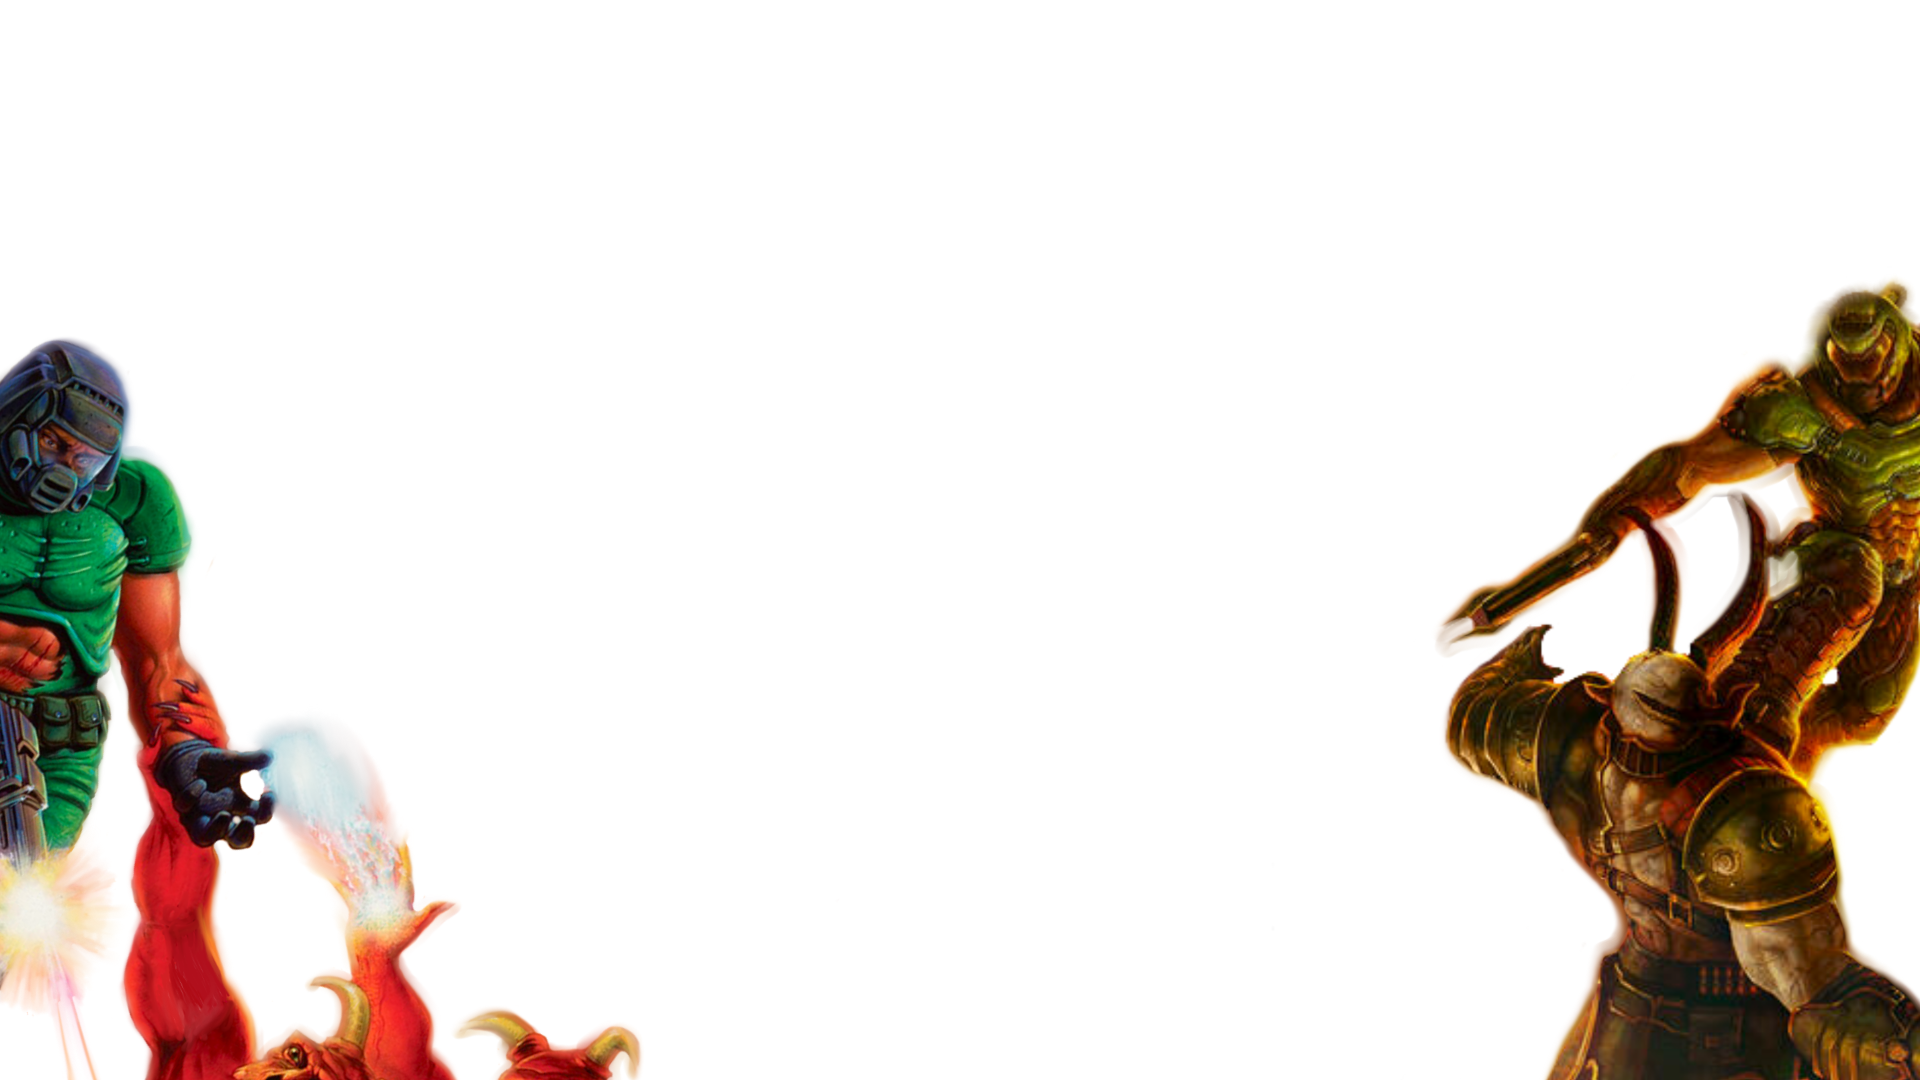
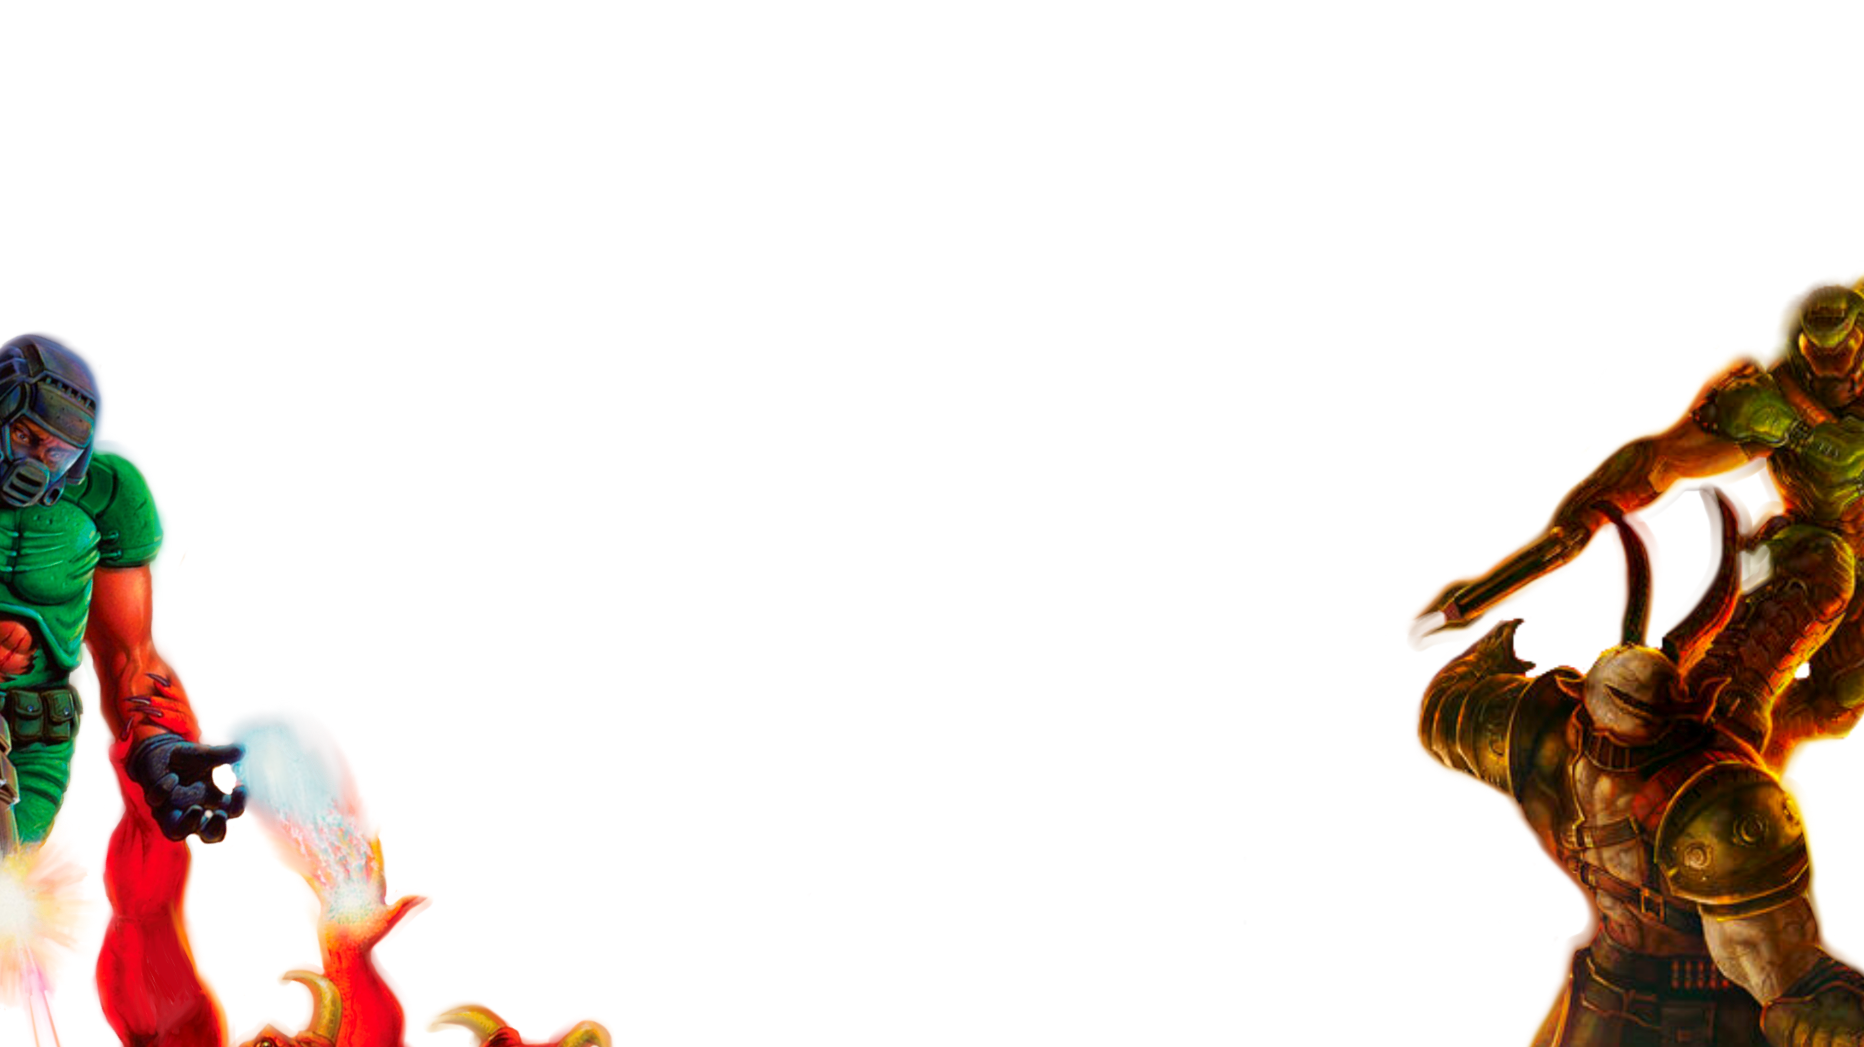
leggermente abbassato e ritagliato bckgrnd

Changed region(s): [[0.7468, 0.2445, 1.0, 1.0], [0.0, 0.3056, 0.3423, 1.0]]

diff --git a/style.css b/style.css
@@ -31,7 +31,7 @@ header {
     position: sticky;
     top: 0;
     left: 0;
-    height: 15vh;
+    height: 20vh;
     width: 100%;
     background: linear-gradient(to bottom, #000000 50%, rgb(50, 0, 0) 90%);
 }
